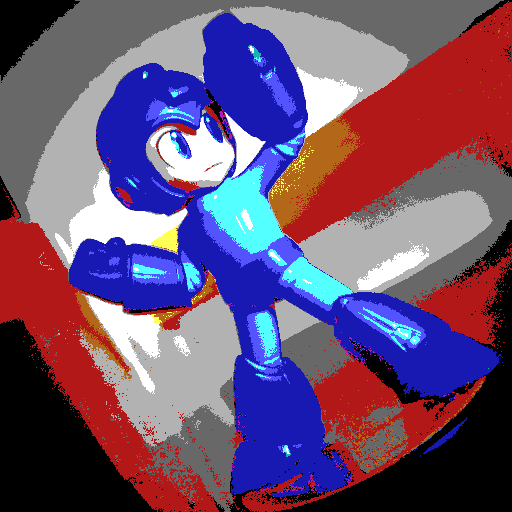
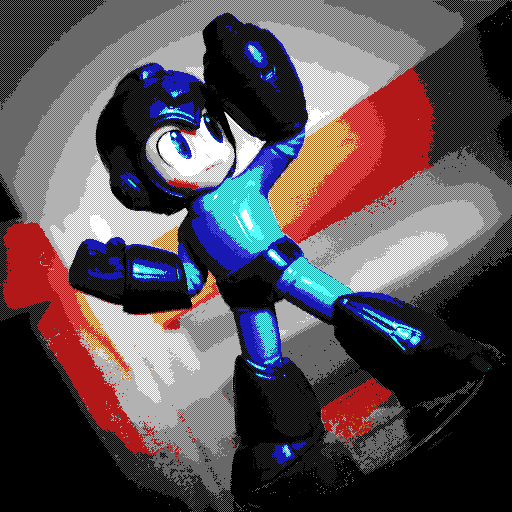
Add dither class. Update output sample. Update README.

diff --git a/main.cpp b/main.cpp
@@ -4,6 +4,7 @@
 #include <iomanip>
 #include <string>
 #include "SDL2/SDL.h"
+#include "dither_pattern.h"
 
 /*
     ANSI COLOR FREAK
@@ -113,6 +114,12 @@ int main(int argc, char** argv)
     Uint32 pixel;
     Uint8 r, g, b;
 
+    // initialize dither pattern
+    DitherPattern dp;
+
+    // grayscale level
+    double gs;
+
     // main loop
     for(int row = 0; row < optimized_surface->h; row++)
     {
@@ -124,33 +131,56 @@ int main(int argc, char** argv)
             // get pixel HSV
             SDL_GetRGB(pixel, optimized_surface->format, &r, &g, &b);
             HSV pixel_HSV = getHSV(r, g, b);
+            gs = gsLevel(&r, &g, &b);
 
             if(pixel_HSV.S < .20)
-            { // if saturation is low, determine grays
-
-                double gs = gsLevel(&r, &g, &b);
-                if(gs < .25)
+            {
+                // if saturation is low, determine grays
+                if(gs < .14)
+                {
                     pixel = SDL_MapRGB(optimized_surface->format, colors[0x0].r, colors[0x0].g, colors[0x0].b); // BLACK
-                else if(gs < .50)
+                    dp.getBit();
+                }
+                else if(gs < .29)
+                {
+                    if(dp.getBit() == true)
+                        pixel = SDL_MapRGB(optimized_surface->format, colors[0x8].r, colors[0x8].g, colors[0x8].b); // DK GRAY
+                    else
+                        pixel = SDL_MapRGB(optimized_surface->format, colors[0x0].r, colors[0x0].g, colors[0x0].b); // BLACK
+                }
+                else if(gs < .43)
+                {
                     pixel = SDL_MapRGB(optimized_surface->format, colors[0x8].r, colors[0x8].g, colors[0x8].b); // DK GRAY
-                else if(gs < .75)
+                    dp.getBit();
+                }
+                else if(gs < .57)
+                {
+                    if(dp.getBit() == true)
+                        pixel = SDL_MapRGB(optimized_surface->format, colors[0x7].r, colors[0x7].g, colors[0x7].b); // LT GRAY
+                    else
+                        pixel = SDL_MapRGB(optimized_surface->format, colors[0x8].r, colors[0x8].g, colors[0x8].b); // DK GRAY
+                }
+                else if(gs < .71)
+                {
                     pixel = SDL_MapRGB(optimized_surface->format, colors[0x7].r, colors[0x7].g, colors[0x7].b); // LT GRAY
+                    dp.getBit();
+                }
+                else if(gs < .86)
+                {
+                    if(dp.getBit() == true)
+                        pixel = SDL_MapRGB(optimized_surface->format, colors[0xf].r, colors[0xf].g, colors[0xf].b); // WHITE
+                    else
+                        pixel = SDL_MapRGB(optimized_surface->format, colors[0x7].r, colors[0x7].g, colors[0x7].b); // LT GRAY
+                }
                 else
+                {
                     pixel = SDL_MapRGB(optimized_surface->format, colors[0xf].r, colors[0xf].g, colors[0xf].b); // WHITE
-
-                /*
-                if(pixel_HSV.V >= (double) colors[0x7].r / 0xFF)
-                    pixel = SDL_MapRGB(optimized_surface->format, colors[0xf].r, colors[0xf].g, colors[0xf].b); // WHITE
-                else if(pixel_HSV.V >= (double) colors[0x8].r / 0xFF)
-                    pixel = SDL_MapRGB(optimized_surface->format, colors[0x7].r, colors[0x7].g, colors[0x7].b); // LT GRAY
-                else if(pixel_HSV.V >= .12)
-                    pixel = SDL_MapRGB(optimized_surface->format, colors[0x8].r, colors[0x8].g, colors[0x8].b); // DK GRAY
-                else
-                    pixel = SDL_MapRGB(optimized_surface->format, colors[0x0].r, colors[0x0].g, colors[0x0].b); // BLACK
-                */
+                    dp.getBit();
+                }
             }
             else
-            { // enough saturation to determine color
+            {
+                // enough saturation to determine color
                 int selected_index = 0;
                 int drop = dropHueRange(pixel_HSV.H);
 
@@ -251,26 +281,40 @@ int main(int argc, char** argv)
                         break;
                 }
 
-                // determine brightness based on value
-                HSV br_selected_HSV = getHSV(colors[selected_index].r, colors[selected_index].g, colors[selected_index].b);
-                HSV dk_selected_HSV = getHSV(colors[selected_index - 8].r, colors[selected_index - 8].g, colors[selected_index - 8].b);
+                //dp.getBit();
 
-                double cutoff = (br_selected_HSV.V - dk_selected_HSV.V) / 2;
-                cutoff = br_selected_HSV.V - cutoff;
-                if(pixel_HSV.V < cutoff)
+                if(gs < .20)
                 {
-                    cutoff = dk_selected_HSV.V / 4;
-                    if(pixel_HSV.V < cutoff)
-                        selected_index = 0x0;
+                    selected_index = 0x0;
+                    dp.getBit();
+                }
+                else if(gs < .40)
+                {
+                    if(dp.getBit() == true)
+                        selected_index -= 8;
                     else
+                        selected_index = 0x0;
+                }
+                else if(gs < .60)
+                {
+                    selected_index -= 8;
+                    dp.getBit();
+                }
+                else if(gs < .80)
+                {
+                    if(dp.getBit() == false)
                         selected_index -= 8;
                 }
+                else
+                    dp.getBit();
 
                 pixel = SDL_MapRGB(optimized_surface->format, colors[selected_index].r, colors[selected_index].g, colors[selected_index].b);
             }
+
             // repaint pixel
             pixels[row * optimized_surface->w + col] = pixel;
         }
+        dp.nextRow();
     }
 
     // render sample image to window

diff --git a/dither_pattern.cpp b/dither_pattern.cpp
@@ -1,0 +1,46 @@
+#include "dither_pattern.h"
+
+DitherPattern::DitherPattern(void)
+{
+    pattern[0] = false;
+    pattern[1] = true;
+    row = 0; // even row
+    itr = 0; // normal direction
+};
+
+void DitherPattern::nextRow(void)
+{
+    if(row == 0)
+    {
+        row = 1;
+        itr = 1;
+    }
+    else
+    {
+        row = 0;
+        itr = 0;
+    }
+};
+
+bool DitherPattern::getBit(void)
+{
+    //
+    bool rbit = pattern[itr];
+    if(row == 0)
+    {
+        // set to next bit
+        if(itr < 1)
+            itr++;
+        else
+            itr = 0;
+    }
+    else
+    {
+        if(itr < 1)
+            itr = 1;
+        else
+            itr--;
+    }
+    return rbit;
+};
+

diff --git a/dither_pattern.h b/dither_pattern.h
@@ -1,0 +1,18 @@
+#ifndef DITHER_PATTERN
+#define DITHER_PATTERN
+
+#include<iostream>
+class DitherPattern
+{
+    public:
+        DitherPattern(void);
+        void nextRow(void);
+        bool getBit(void);
+
+    private:
+        bool pattern[2];
+        uint8_t itr;
+        uint8_t row;
+};
+
+#endif

diff --git a/README.md b/README.md
@@ -9,10 +9,12 @@ The program currently opens a small sample view window but functionality for thi
 
 ## TO-DO:
 * Either remove sample display window, or scale sample to fit.
-* Add basic dither from dark hue to black, and bright hugh to dark hue.
-* Add basic dither between grayscale.
 * For images with 80 pixel width or less, generate an ANSI escape code version that can be viewed in terminal.
 * Provide a makefile.
+* Consider making dither feature an option (command line argument).
+
+## UPDATED:
+* *2016.02.11*- Added simple dither class and employed on grayscale and color ranges. Works well for colorful images. Not so much for images with reduced palettes to begin with. See sample image update.
 
 ## SAMPLE
 *Note:* The .BMP image used as source input and the resulting output image have been converted to .PNG for the purposes of this README.
